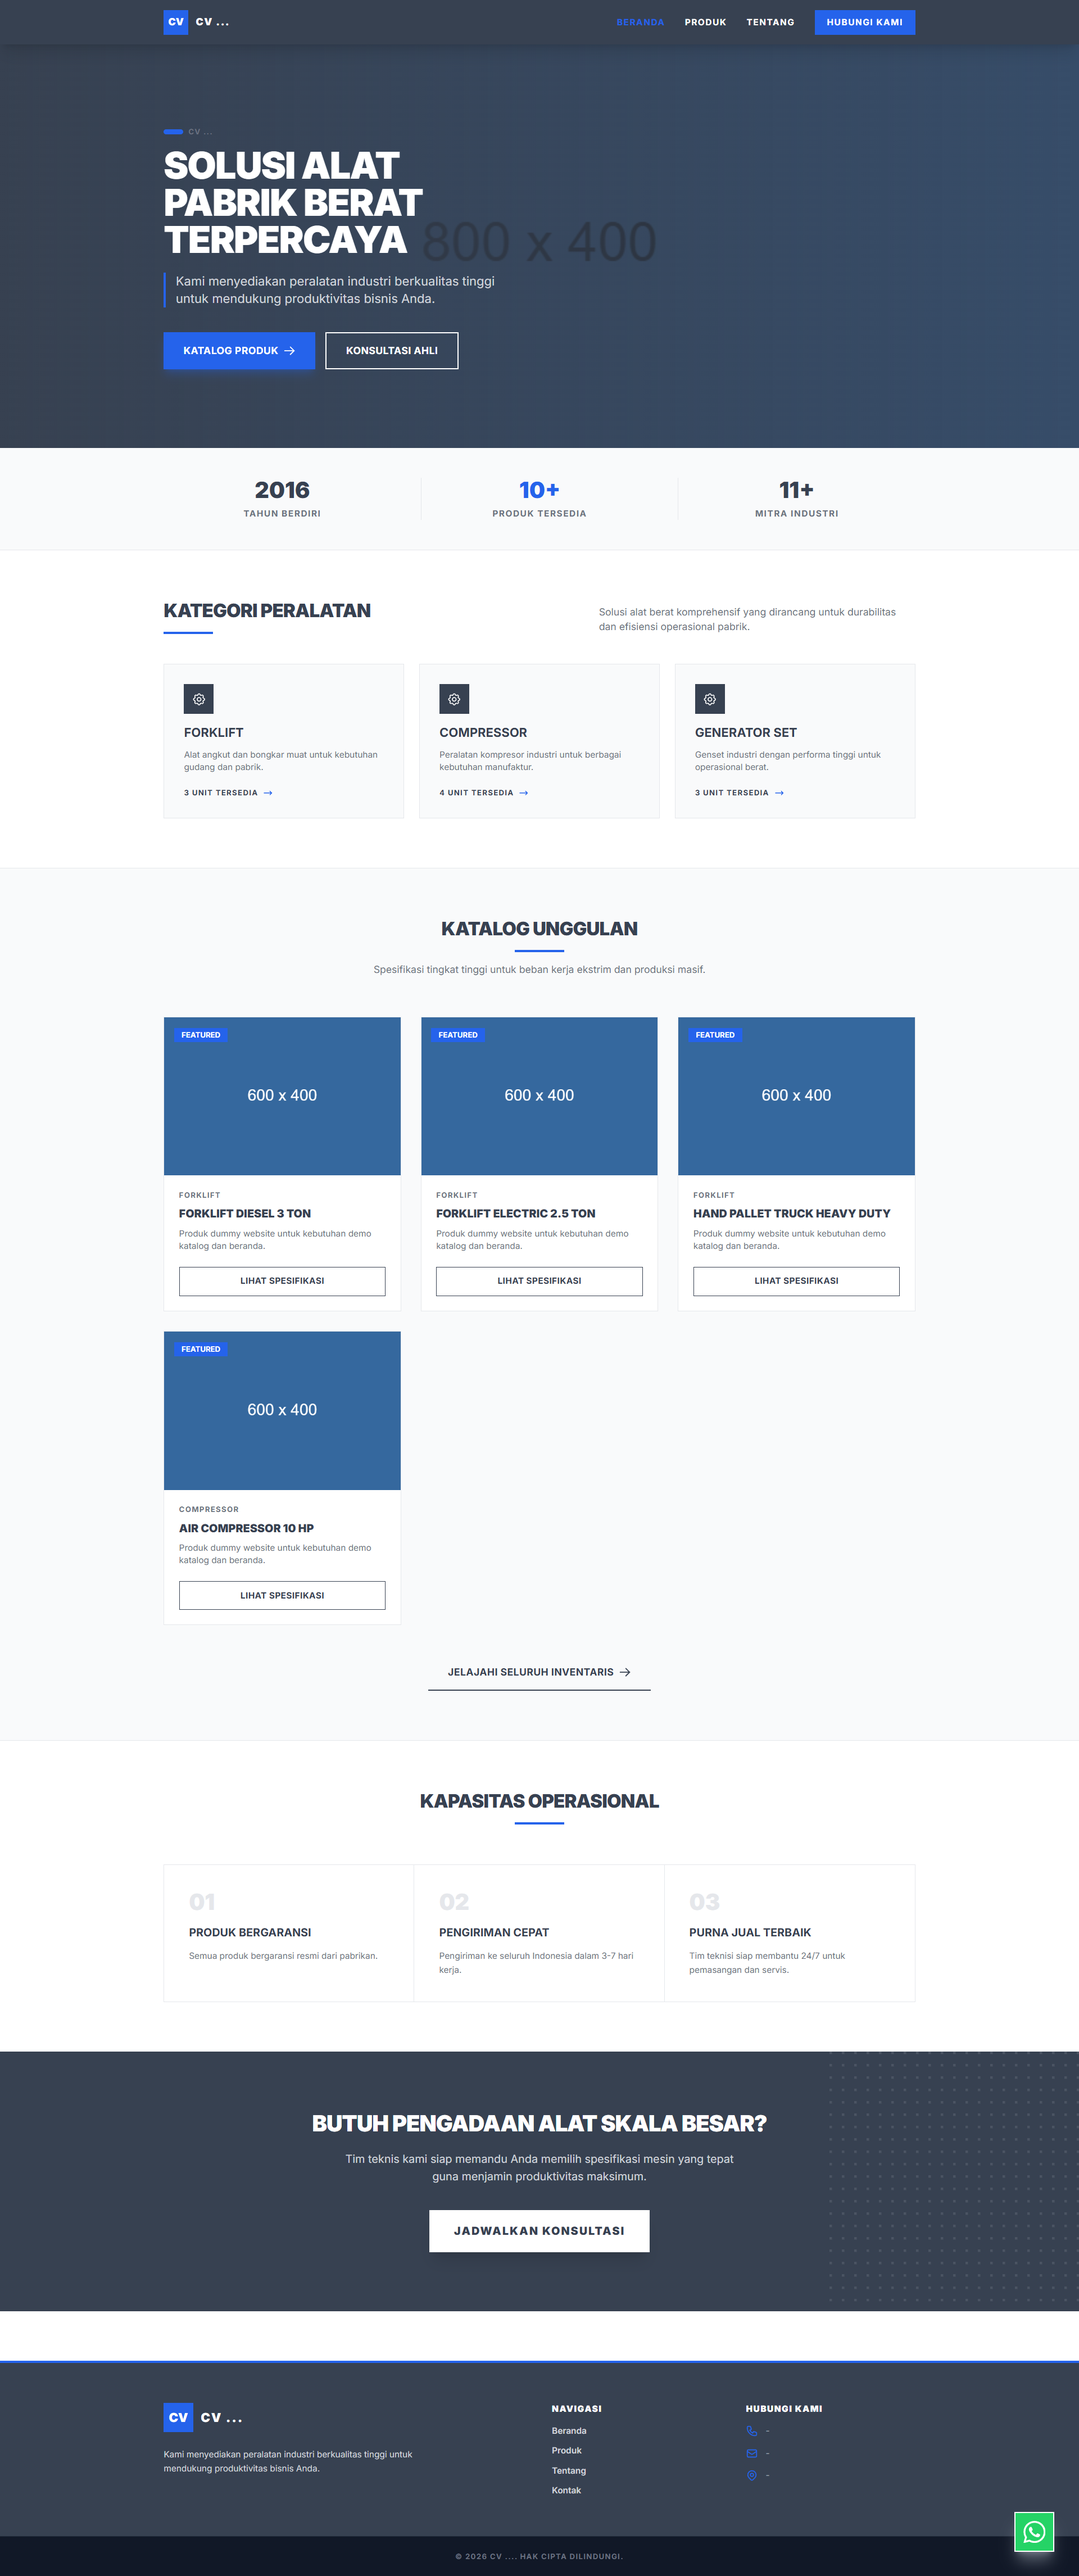
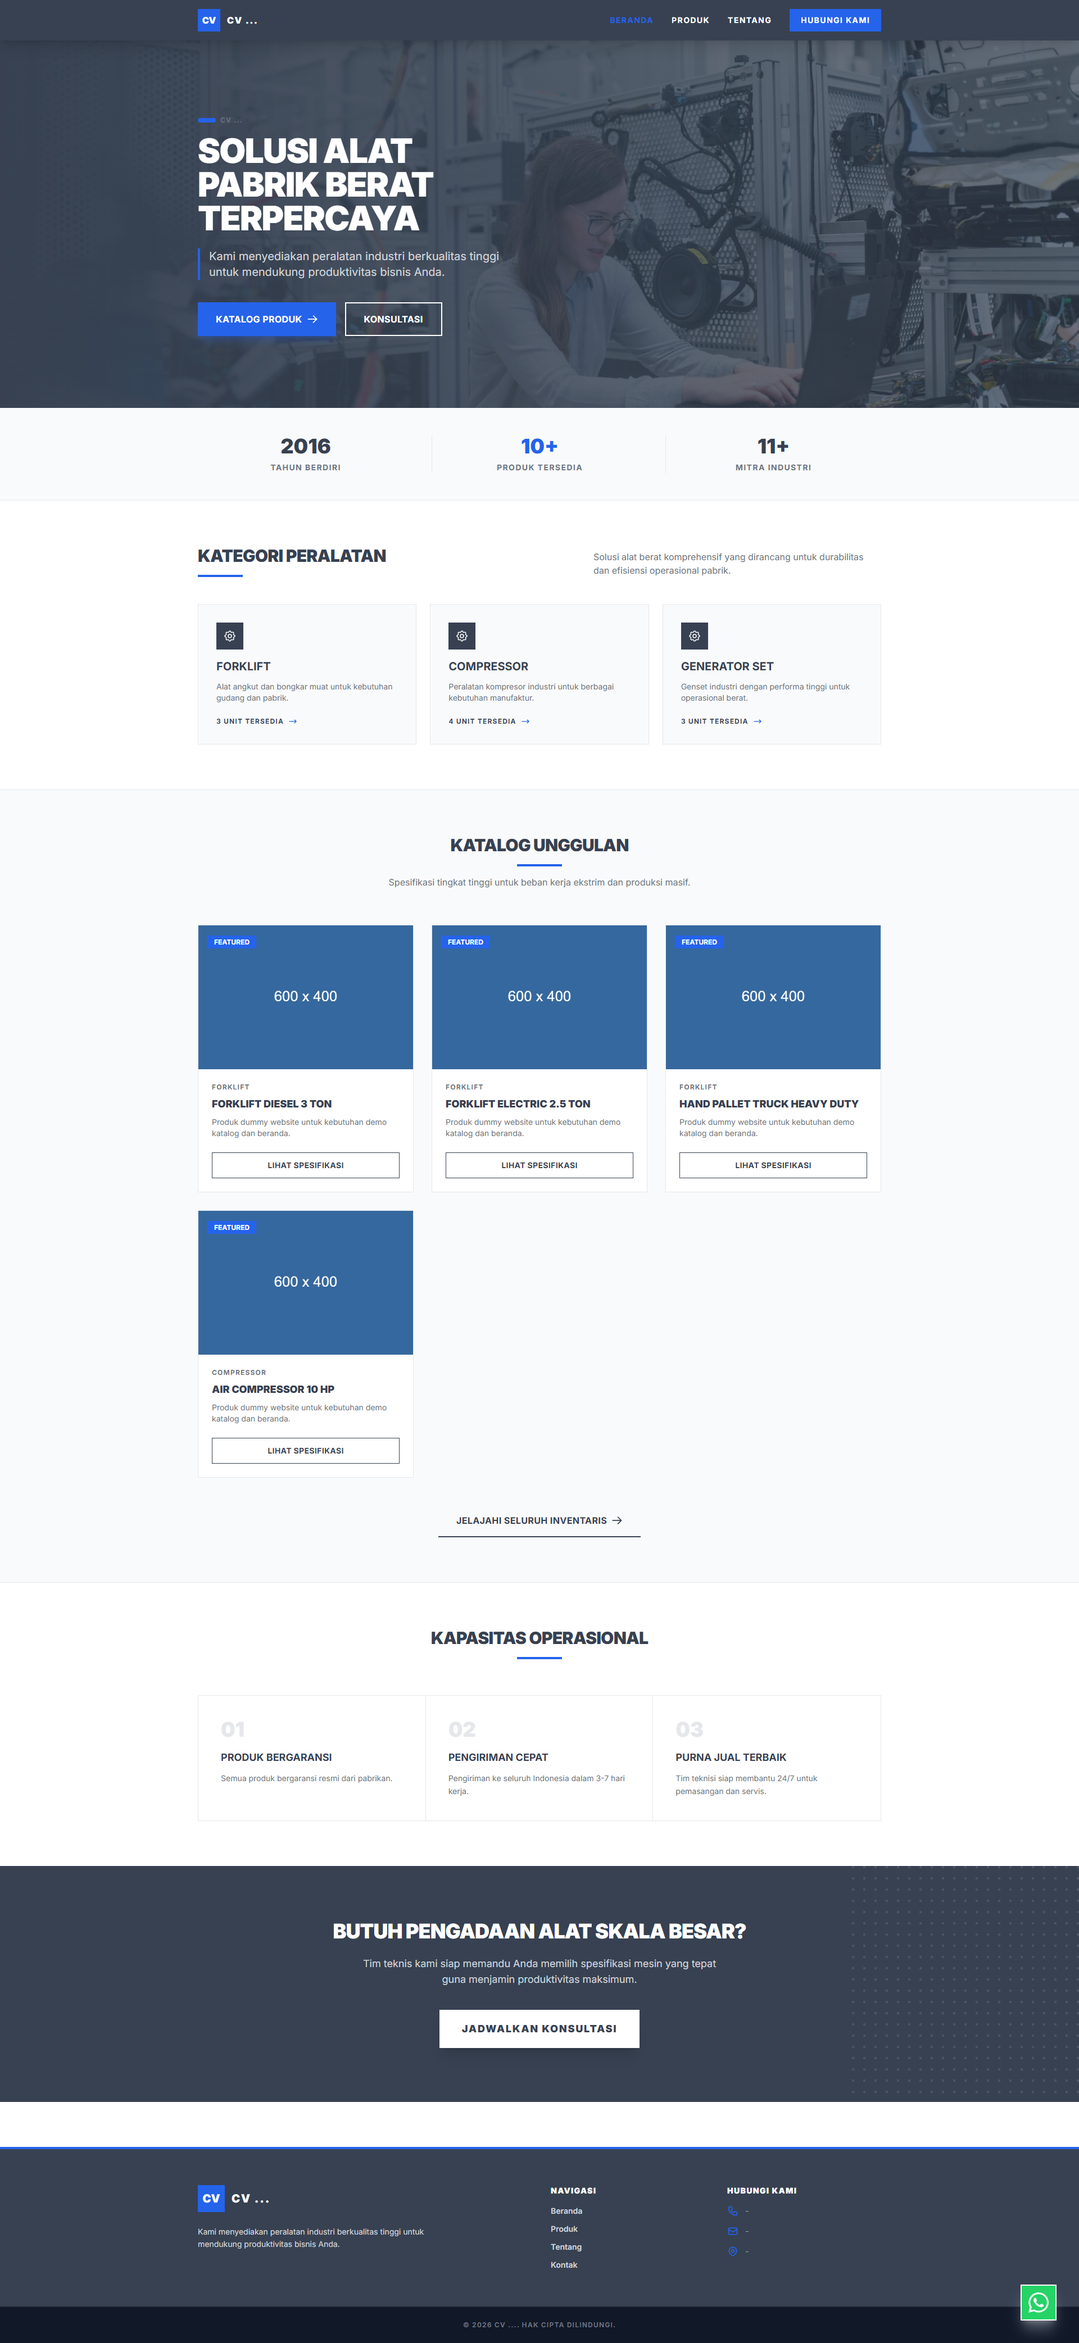
docs: add new project screenshots for catalog, comparison, landing page, and financial report

diff --git a/index.html b/index.html
@@ -386,6 +386,9 @@
             <div class="gallery-item filter-frontend" onclick="openLightbox('screenshots/katalog.png')">
                 <img src="screenshots/katalog.png" alt="Katalog Produk" loading="lazy">
             </div>
+            <div class="gallery-item filter-frontend" onclick="openLightbox('screenshots/bandingkan-product.png')">
+                <img src="screenshots/bandingkan-product.png" alt="Bandingkan Product" loading="lazy">
+            </div>
             <div class="gallery-item filter-frontend" onclick="openLightbox('screenshots/detail-product.png')">
                 <img src="screenshots/detail-product.png" alt="Detail Produk" loading="lazy">
             </div>
